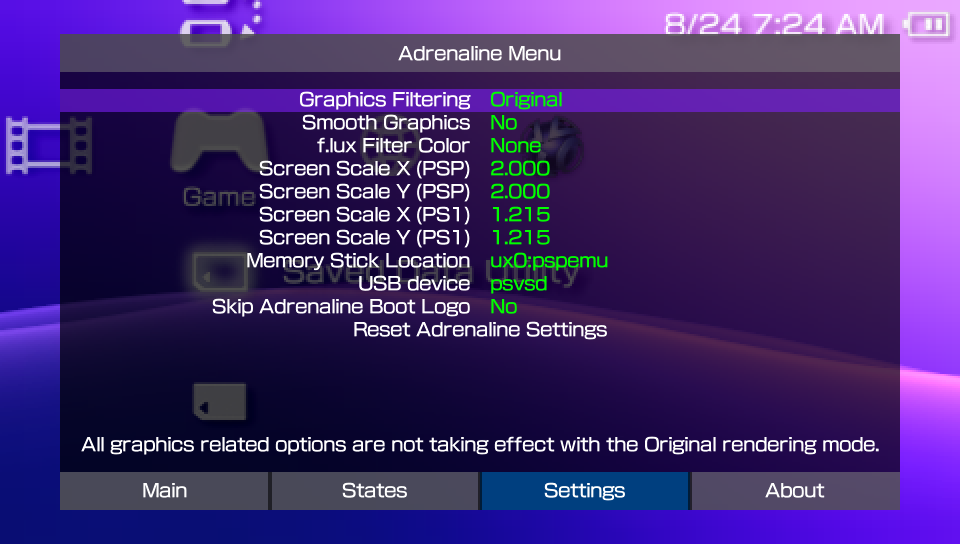
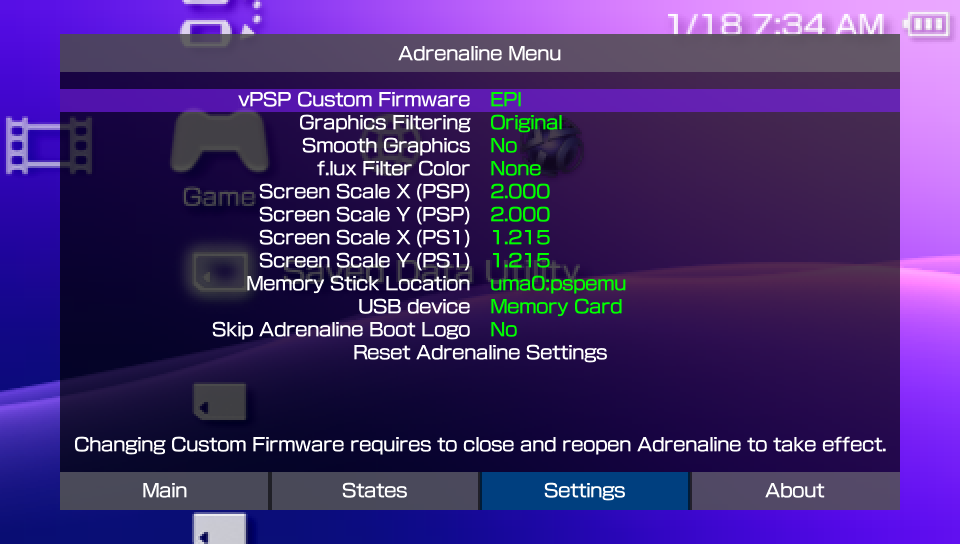
docs: Updates Adrenaline setting optios

diff --git a/docs/src/03-AdrenalineMenu/02-AdrenalineSettings.md b/docs/src/03-AdrenalineMenu/02-AdrenalineSettings.md
@@ -7,6 +7,21 @@ A tab in the [Adrenaline Menu](../04-AdrenalineMenu.md) that allows adjusting va
 <img src="../assets/03-epi-menu-settings.png" width="70%" />
 </p>
 
+## vPSP Custom Firmware
+
+Chooses the PSP Custom Firmware that is going to be loaded by the Adrenaline Application into the vPSP environment.
+
+The available options are:
+
+- **EPI**: Uses the CFW that comes with Adrenaline.
+- **ARK**: Uses the [ARK CFW](https://github.com/PSP-Arkfive/ARK-5).
+
+> [!NOTE]
+> The `ARK` options is only available if you have ARK savedata files properly installed. Otherwise, only the `EPI` will be available.
+
+> [!IMPORTANT]
+> Changing vPSP Custom Firmware requires to close and reopen the Adrenaline Application to take effect.
+
 ## Graphics Filtering
 
 Applies graphical filters in the Vita/PSTV screen while the Adrenaline App is open.
